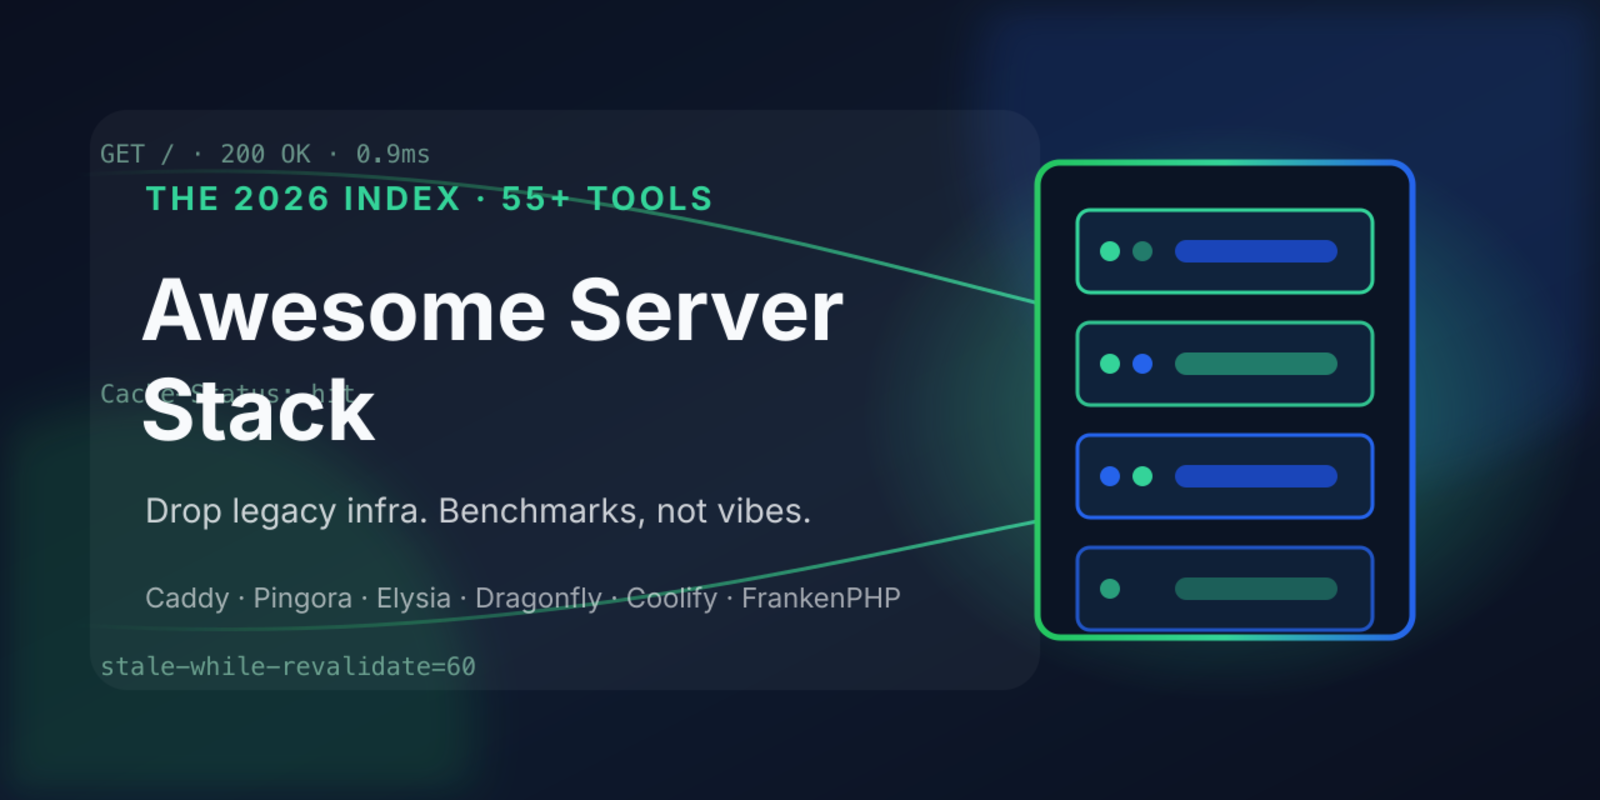
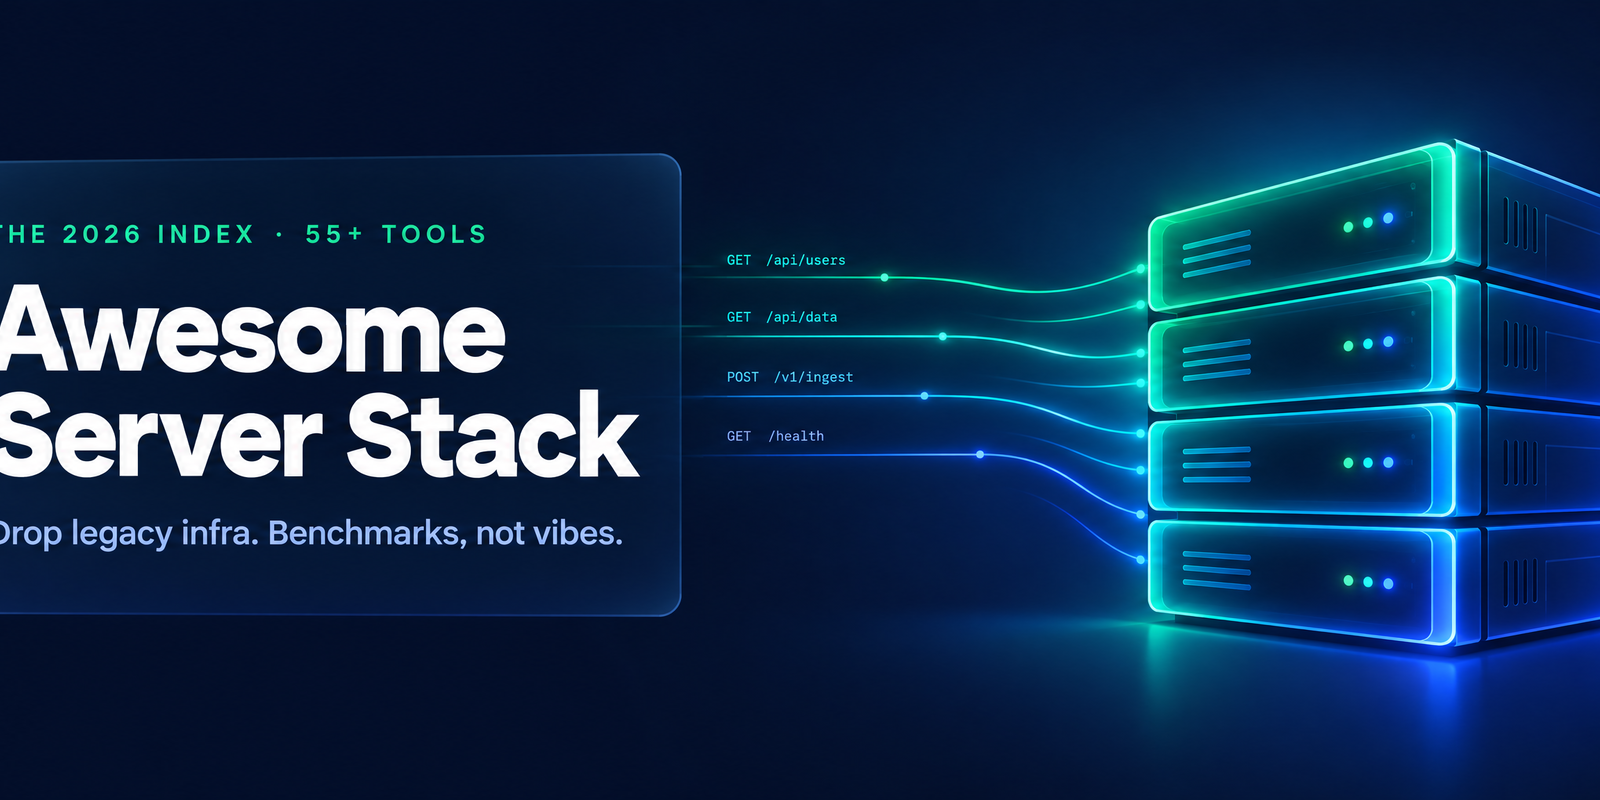
feat: premium hero art via GPT Image 2.5 (Higgsfield)
Generated with [Devin](https://devin.ai)

diff --git a/docs/assets/README.md b/docs/assets/README.md
@@ -2,11 +2,10 @@
 
 | File | Size | Provenance |
 |------|------|-----------|
-| `social-preview.svg` | 1280×640 | Deterministic vector art, authored in-repo |
-| `social-preview.png` | 1280×640 | `rsvg-convert` render of the SVG — GitHub social preview |
-| `hero.png` | 1600×800 | `magick` up-scale of the PNG — README hero |
-| `IMAGE-PROMPT-CHATGPT.md` | — | Prompt + Higgsfield CLI path for the AI-rendered upgrade |
+| `hero-ai.png` | 2688×1152 | **GPT Image 2.5 via Higgsfield CLI** (2026-10-22), prompt in `IMAGE-PROMPT-CHATGPT.md` |
+| `social-preview.png` | 1280×640 | Crop/resize of `hero-ai.png` — GitHub social preview |
+| `hero.png` | 1600×800 | Resize of `hero-ai.png` — README hero |
+| `social-preview.svg` | 1280×640 | Deterministic vector fallback (pre-AI version) |
 
-Higgsfield CLI is installed (`~/.local/bin/higgsfield`) but was not
-authenticated at generation time — `higgsfield auth login` once, then
-use the prompt in `IMAGE-PROMPT-CHATGPT.md`.
+Generated with `higgsfield generate create gpt_image_2_5` — see
+`IMAGE-PROMPT-CHATGPT.md` for the exact prompt and regeneration steps.

diff --git a/CHANGELOG.md b/CHANGELOG.md
@@ -7,5 +7,5 @@
 - Full caching coverage: in-memory stores, in-process libraries, HTTP/edge layer, methods playbook
 - Varnish→Vinyl Cache rename documented (AHA #5); NGINX Unit + groupcache staleness flagged
 - Decision matrix + 2026 recommended server stack + Agent Query API
-- Deterministic premium social-preview assets (SVG + PNG 1280×640, hero 1600×800)
-- `docs/assets/IMAGE-PROMPT-CHATGPT.md` — Higgsfield/ChatGPT upgrade prompt
+- Premium hero art: GPT Image 2.5 via Higgsfield CLI (2688×1152 → social-preview 1280×640, hero 1600×800); deterministic SVG kept as fallback
+- `docs/assets/IMAGE-PROMPT-CHATGPT.md` — exact prompt + regeneration steps
